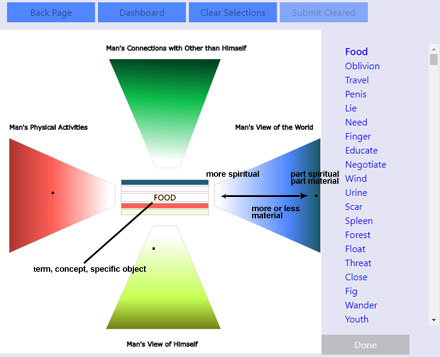
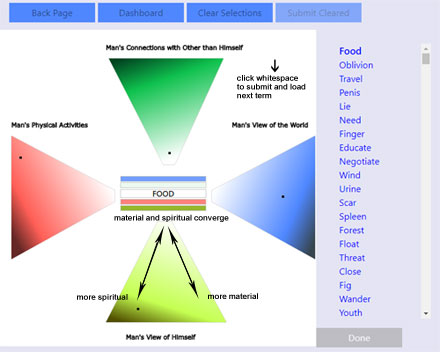
ran gulp task

diff --git a/public/js/s1-min.js b/public/js/s1-min.js
@@ -1,1 +1,1 @@
-Ybigh={counter:0,timeoutHandle:"",paths:[],current:"",saveSelection:[],counter_hash:[],click_counter:0,blue:null,green:null,red:null,yellow:null,data:null,confirmIndex:0,to_hex:function(o){return hex=o.toString(16),2==hex.length?hex:"0"+hex},clear:function(){Ybigh.$colors.fadeOut(Ybigh.$colors.remove),Ybigh.timeoutHandle=window.setTimeout(function(){"make-bold active"===$("#"+Ybigh.current).attr("class")&&$("#removeSelections").prop("disabled",!1),Ybigh.show(),$(".cl.world").css({"background-color":"white"}),$(".cl.others").css({"background-color":"white"}),$(".cl.activities").css({"background-color":"white"}),$(".cl.himself").css({"background-color":"white"}),Ybigh.blue=null,Ybigh.green=null,Ybigh.red=null,Ybigh.yellow=null},500)},submitCleared:function(){var o={name:Ybigh.current,wordID:123};$.ajax({type:"POST",url:"/symbol",data:JSON.stringify(o),error:function(o,e,t){},success:function(o){console.log(o),$("#"+Ybigh.current).removeClass("make-bold"),$("#removeSelections").prop("disabled",!0),Ybigh.counter>3&&$("#done").prop("disabled",!1).removeClass("dis")}})},startCounter:function(){Ybigh.timeoutHandle=window.setTimeout(function(){Ybigh.show()},500)},show:function(){var o=$("#phone").html();$(".word");let e;Ybigh.$colors=$('<canvas title="Once selections are made, click whitespace to submit current and load the next word" id="can" height="552" width="552"></canvas>'),$("#container").append(Ybigh.$colors.fadeIn()),Ybigh.colorctx=Ybigh.$colors[0].getContext("2d");var t=getAbsoluteBoundingRect(Ybigh.$colors[0]),c=t.left,l=t.top;Ybigh.render(!0),Ybigh.$colors.on("touchstart mouseup",function(t){if(t.preventDefault(),!Ybigh.current)return void alert("Click a term on the right then make selection(s)");let i="true"===o?t.changedTouches[0]:t,r=i.clientX,h=i.clientY,a=parseInt(r-c),n=parseInt(h-l);var g=0;for(g=0;g<Ybigh.paths.length&&!(e=Ybigh.colorctx.isPointInPath(Ybigh.paths[g],a,n));g++);if(e){let o=Ybigh.get_color(i);if("world"==Ybigh.paths[g].objID){let e=Ybigh.colorctx.createLinearGradient(575,0,375,0);e.addColorStop(0,"#014421"),e.addColorStop(.4,"#4f87ff"),e.addColorStop(1,"white"),Ybigh.colorctx.beginPath(),Ybigh.colorctx.moveTo(550,185),Ybigh.colorctx.lineTo(370,265),Ybigh.colorctx.lineTo(370,300),Ybigh.colorctx.lineTo(550,380),Ybigh.colorctx.closePath(),Ybigh.colorctx.fillStyle=e,Ybigh.colorctx.strokeStyle="#D0D0D0",Ybigh.colorctx.stroke(),Ybigh.colorctx.fill(),Ybigh.click_counter+=1,o.name=Ybigh.current,o.category=8,Ybigh.blue=o,Ybigh.colorctx.setTransform(1,0,0,1,0,0),Ybigh.colorctx.fillStyle="#000000",Ybigh.colorctx.fillRect(o.x-2,o.y-2,4,4),Ybigh.counter_hash.push({count:Ybigh.click_counter,category:o.category})}else if("others"==Ybigh.paths[g].objID){let e=Ybigh.colorctx.createLinearGradient(-90,30,-100,200);e.addColorStop(0,"#014421"),e.addColorStop(.4,"#0fc14e"),e.addColorStop(1,"white"),Ybigh.colorctx.beginPath(),Ybigh.colorctx.moveTo(190,50),Ybigh.colorctx.lineTo(270,235),Ybigh.colorctx.lineTo(310,235),Ybigh.colorctx.lineTo(380,50),Ybigh.colorctx.closePath(),Ybigh.colorctx.fillStyle=e,Ybigh.colorctx.strokeStyle="#D0D0D0",Ybigh.colorctx.stroke(),Ybigh.colorctx.fill(),Ybigh.click_counter+=1,o.name=Ybigh.current,o.category=2,Ybigh.green=o,Ybigh.colorctx.beginPath(),Ybigh.colorctx.setTransform(1,0,0,1,0,0),Ybigh.colorctx.fillStyle="#000000",Ybigh.colorctx.fillRect(o.x-2,o.y-2,4,4),Ybigh.counter_hash.push({count:Ybigh.click_counter,category:o.category})}else if("activities"==Ybigh.paths[g].objID){let e=Ybigh.colorctx.createLinearGradient(190,0,-50,0);e.addColorStop(0,"white"),e.addColorStop(.4,"#ff5f57"),e.addColorStop(1,"#600F0C"),Ybigh.colorctx.beginPath(),Ybigh.colorctx.moveTo(20,185),Ybigh.colorctx.lineTo(200,265),Ybigh.colorctx.lineTo(200,300),Ybigh.colorctx.lineTo(20,380),Ybigh.colorctx.closePath(),Ybigh.colorctx.fillStyle=e,Ybigh.colorctx.strokeStyle="#D0D0D0",Ybigh.colorctx.stroke(),Ybigh.colorctx.fill(),Ybigh.click_counter+=1,o.name=Ybigh.current,o.category=4,Ybigh.red=o,Ybigh.colorctx.setTransform(1,0,0,1,0,0),Ybigh.colorctx.fillStyle="#000000",Ybigh.colorctx.fillRect(o.x-2,o.y-2,4,4),Ybigh.counter_hash.push({count:Ybigh.click_counter,category:o.category})}else{let e=Ybigh.colorctx.createLinearGradient(0,530,0,350);e.addColorStop(0,"#525100"),e.addColorStop(.4,"#c5ff52"),e.addColorStop(1,"white"),Ybigh.colorctx.beginPath(),Ybigh.colorctx.moveTo(185,510),Ybigh.colorctx.lineTo(265,335),Ybigh.colorctx.lineTo(305,335),Ybigh.colorctx.lineTo(380,510),Ybigh.colorctx.closePath(),Ybigh.colorctx.fillStyle=e,Ybigh.colorctx.strokeStyle="#D0D0D0",Ybigh.colorctx.stroke(),Ybigh.colorctx.fill(),Ybigh.click_counter+=1,o.name=Ybigh.current,o.category=1,Ybigh.yellow=o,Ybigh.colorctx.setTransform(1,0,0,1,0,0),Ybigh.colorctx.fillStyle="#000000",Ybigh.colorctx.fillRect(o.x-2,o.y-2,4,4),Ybigh.counter_hash.push({count:Ybigh.click_counter,category:o.category})}$(".cl."+Ybigh.paths[g].objID).css({"background-color":o.c})}else if(Ybigh.blue||Ybigh.red||Ybigh.green||Ybigh.yellow){$("#word_list li").removeClass("active");var s=parseInt($("#"+Ybigh.current).attr("data")),b=$("#word_list").find("[data='"+s+"']")[0],Y=s+1,u=$("#word_list").find("[data='"+Y+"']")[0];if(Ybigh.checkIfDone(u))$(u).addClass("active"),Ybigh.next(u,b),s>18&&$("#word_list").scrollTo("+=35",800);else{var d=Y+1,x=$("#word_list").find("[data='"+d+"']")[0];$(x).addClass("active"),Ybigh.next(x,b),d>18&&$("#word_list").scrollTo("+=35",800)}}}),Ybigh.$colors.on("mousemove",function(o){o.preventDefault();let e=parseInt(o.clientX-c),t=parseInt(o.clientY-l);for(var i=0;i<Ybigh.paths.length;i++){Ybigh.colorctx.isPointInPath(Ybigh.paths[i],e,t)&&Ybigh.$colors.css("cursor","crosshair")}})},checkIfDone:function(o){return"make-bold"!==$(o).attr("class")},bind_inputs:function(o){$("#overlay").css("display","block"),$.get("/Stage1/data",function(o){var e;Ybigh.data=o.data,Ybigh.show(),$("#clear").click(Ybigh.clear),$("#done").click(Ybigh.done),$("#removeSelections").click(Ybigh.submitCleared);var t=$("#word_list");$.each(Ybigh.data,function(o,c){var l=$('<li data="'+o+'" id="'+this+'">'+this+"</li>").on("touchstart mouseup",function(){if($("#removeSelections").prop("disabled",!0),$("#word_list li").removeClass("active"),"make-bold"===$(this).attr("class"))return Ybigh.blue||Ybigh.green||Ybigh.red||Ybigh.yellow?($(e).addClass("active"),void alert("Clear or submit active symbol before viewing another symbol")):($(this).addClass("active"),Ybigh.getPreviousState(this),void(e=this));Ybigh.current=$(this).html(),$(".word").val($(this).html().toUpperCase()),$(this).addClass("active"),(Ybigh.blue||Ybigh.green||Ybigh.red||Ybigh.yellow)&&Ybigh.current!==$(e).html()&&Ybigh.next(this,e),e=this});t.append(l)}),$("#overlay").css("display","none")})},next:function(o,e){$(".cl.world").css({"background-color":"white"}),$(".cl.others").css({"background-color":"white"}),$(".cl.activities").css({"background-color":"white"}),$(".cl.himself").css({"background-color":"white"}),Ybigh.close();let t=Ybigh.counter_hash.filter(function(o,e,t){return t.findIndex(function(e){return e.category==o.category})===e}).map(function(o){return{count:Ybigh.counter_hash.filter(function(e){return e.category==o.category}).reduce(function(o,e){return e.count<o?e.count:o}).count,category:o.category}});for(var c=0;c<t.length;c++)Ybigh.yellow&&Ybigh.yellow.category===t[c].category&&(Ybigh.yellow.clicked=t[c].count,Ybigh.saveSelection.push(Ybigh.yellow)),Ybigh.green&&Ybigh.green.category===t[c].category&&(Ybigh.green.clicked=t[c].count,Ybigh.saveSelection.push(Ybigh.green)),Ybigh.red&&Ybigh.red.category===t[c].category&&(Ybigh.red.clicked=t[c].count,Ybigh.saveSelection.push(Ybigh.red)),Ybigh.blue&&Ybigh.blue.category===t[c].category&&(Ybigh.blue.clicked=t[c].count,Ybigh.saveSelection.push(Ybigh.blue));Ybigh.saveSelection.sort(function(o,e){return o.count-e.count}),Ybigh.submit(Ybigh.saveSelection,o,e),Ybigh.saveSelection.length=0,Ybigh.blue=null,Ybigh.green=null,Ybigh.red=null,Ybigh.yellow=null},getPreviousState:function(o){for(var e=$(o).html(),t=[{c:"#81dea2",x:329,y:92,percentx:59.49367088607595,percenty:16.636528028933093,name:e,category:2,clicked:1},{c:"#cadbff",x:451,y:278,percentx:81.55515370705244,percenty:50.27124773960217,name:e,category:8,clicked:2},{c:"#ffe3e2",x:156,y:283,percentx:28.20976491862568,percenty:51.17540687160941,name:e,category:4,clicked:3},{c:"#e0ffa2",x:266,y:489,percentx:48.10126582278481,percenty:88.42676311030742,name:e,category:1,clicked:4}],c=0;c<t.length;c++)switch(Ybigh.colorctx.setTransform(1,0,0,1,0,0),Ybigh.colorctx.fillStyle="#000000",Ybigh.colorctx.fillRect(t[c].x-2,t[c].y-2,4,4),t[c].category){case 1:$(".cl.himself").css({"background-color":t[c].c}),Ybigh.yellow=t[c],Ybigh.counter_hash.push({count:t[c].click,category:t[c].category});break;case 2:$(".cl.others").css({"background-color":t[c].c}),Ybigh.green=t[c],Ybigh.counter_hash.push({count:t[c].click,category:t[c].category});break;case 4:$(".cl.activities").css({"background-color":t[c].c}),Ybigh.red=t[c],Ybigh.counter_hash.push({count:t[c].click,category:t[c].category});break;case 8:$(".cl.world").css({"background-color":t[c].c}),Ybigh.blue=t[c],Ybigh.counter_hash.push({count:t[c].click,category:t[c].category})}Ybigh.current=e,$(".word").val(e.toUpperCase())},done:function(o){(Ybigh.yellow||Ybigh.blue||Ybigh.red||Ybigh.green)&&Ybigh.next(),window.location.href="/Stage2"},submit:function(o,e,t){$("#overlay").css("display","block"),$.ajax({type:"POST",url:"/symbol",data:JSON.stringify(o),error:function(o,e,t){$("#overlay").css("display","none")},success:function(c){o.length=0,Ybigh.counter+=1,e&&t?(Ybigh.current=$(e).html(),$(".word").val($(e).html().toUpperCase()),$(t).addClass("make-bold")):$(t).addClass("make-bold"),Ybigh.counter>3&&$("#done").prop("disabled",!1).removeClass("dis"),$("#overlay").css("display","none")}})},close:function(){Ybigh.$colors.fadeOut(Ybigh.$colors.remove),Ybigh.startCounter()},get_color:function(o){var e=o.pageX-Ybigh.$colors.offset().left,t=o.pageY-Ybigh.$colors.offset().top,c=Ybigh.colorctx.getImageData(e,t,1,1).data,l=e/$("#can").width()*100,i=t/$("#can").height()*100;return{c:"#"+Ybigh.to_hex(c[0])+Ybigh.to_hex(c[1])+Ybigh.to_hex(c[2]),x:e,y:t,percentx:l,percenty:i}},render:function(o){var e,t=[{nameID:"others",col1:"white",col2:"#0fc14e",col0:"#014421",x:190,y:50,xlt:270,ylt:235,xlt1:310,ylt1:235,xlt2:380,ylt2:50,sy:30,fy:200,sx:-90,fx:-100,stop1:0,stop2:.4,stop3:1,labelX:185,labelY:35,label:"Man's Connections with Other than Himself"},{nameID:"activities",col1:"#600F0C",col2:"#ff5f57",col0:"white",x:20,y:185,xlt:200,ylt:265,xlt1:200,ylt1:300,xlt2:20,ylt2:380,sy:0,fy:0,sx:190,fx:-50,stop1:0,stop2:.4,stop3:1,labelX:20,labelY:170,label:"Man's Physical Activities"},{nameID:"world",col1:"white",col2:"#4f87ff",col0:"#014421",x:550,y:185,xlt:370,ylt:265,xlt1:370,ylt1:300,xlt2:550,ylt2:380,sy:0,fy:0,sx:575,fx:375,stop1:0,stop2:.4,stop3:1,labelX:405,labelY:170,label:"Man's View of the World"},{nameID:"himself",col1:"white",col2:"#c5ff52",col0:"#525100",x:185,y:510,xlt:265,ylt:335,xlt1:305,ylt1:335,xlt2:380,ylt2:510,sy:530,fy:350,sx:0,fx:0,stop1:0,stop2:.4,stop3:1,labelX:220,labelY:540,label:"Man's View of Himself"}];Path2D.prototype.getID=function(o){this.objID=o};for(var c=0;c<t.length;c++){(e=("others"==t[c].nameID||t[c].nameID,Ybigh.colorctx.createLinearGradient(t[c].sx,t[c].sy,t[c].fx,t[c].fy))).addColorStop(t[c].stop1,t[c].col0),e.addColorStop(t[c].stop2,t[c].col2),e.addColorStop(t[c].stop3,t[c].col1);var l=new Path2D;l.moveTo(t[c].x,t[c].y),l.lineTo(t[c].xlt,t[c].ylt),l.lineTo(t[c].xlt1,t[c].ylt1),l.lineTo(t[c].xlt2,t[c].ylt2),l.closePath(),l.getID(t[c].nameID),Ybigh.colorctx.fillStyle=e,Ybigh.colorctx.strokeStyle="#D0D0D0",Ybigh.colorctx.stroke(l),Ybigh.colorctx.fill(l),o&&(Ybigh.paths.push(l),Ybigh.colorctx.strokeStyle="black",Ybigh.colorctx.font="11px verdana",Ybigh.colorctx.strokeText(t[c].label,t[c].labelX,t[c].labelY))}}},Ybigh.bind_inputs();
+Ybigh={counter:0,timeoutHandle:"",paths:[],current:"",saveSelection:[],counter_hash:[],click_counter:0,blue:null,green:null,red:null,yellow:null,data:null,confirmIndex:0,to_hex:function(o){return hex=o.toString(16),2==hex.length?hex:"0"+hex},clear:function(){Ybigh.$colors.fadeOut(Ybigh.$colors.remove),Ybigh.timeoutHandle=window.setTimeout(function(){"make-bold active"===$("#"+Ybigh.current).attr("class")&&$("#removeSelections").prop("disabled",!1),Ybigh.show(),$(".cl.world").css({"background-color":"white"}),$(".cl.others").css({"background-color":"white"}),$(".cl.activities").css({"background-color":"white"}),$(".cl.himself").css({"background-color":"white"}),Ybigh.blue=null,Ybigh.green=null,Ybigh.red=null,Ybigh.yellow=null},500)},submitCleared:function(){var o={name:Ybigh.current,wordID:123};$.ajax({type:"POST",url:"/symbol",data:JSON.stringify(o),error:function(o,e,t){},success:function(o){console.log(o),$("#"+Ybigh.current).removeClass("make-bold"),$("#removeSelections").prop("disabled",!0),Ybigh.counter>3&&$("#done").prop("disabled",!1).removeClass("dis")}})},startCounter:function(){Ybigh.timeoutHandle=window.setTimeout(function(){Ybigh.show()},500)},show:function(){var o=$("#phone").html();$(".word");let e;Ybigh.$colors=$('<canvas title="Once selections are made, click whitespace to submit current and load the next word" id="can" height="552" width="552"></canvas>'),$("#container").append(Ybigh.$colors.fadeIn()),Ybigh.colorctx=Ybigh.$colors[0].getContext("2d");var t=getAbsoluteBoundingRect(Ybigh.$colors[0]),c=t.left,l=t.top;Ybigh.render(!0),Ybigh.$colors.on("touchstart mouseup",function(t){if(t.preventDefault(),!Ybigh.current)return void alert("Click a term on the right then make selection(s)");let i="true"===o?t.changedTouches[0]:t,r=i.clientX,h=i.clientY,a=parseInt(r-c),n=parseInt(h-l);var g=0;for(g=0;g<Ybigh.paths.length&&!(e=Ybigh.colorctx.isPointInPath(Ybigh.paths[g],a,n));g++);if(e){let o=Ybigh.get_color(i);if("world"==Ybigh.paths[g].objID){let e=Ybigh.colorctx.createLinearGradient(580,300,90,90);e.addColorStop(0,"#36454F"),e.addColorStop(.1,"#4f87ff"),e.addColorStop(.37,"white"),Ybigh.colorctx.beginPath(),Ybigh.colorctx.moveTo(550,185),Ybigh.colorctx.lineTo(370,280),Ybigh.colorctx.lineTo(370,300),Ybigh.colorctx.lineTo(550,400),Ybigh.colorctx.closePath(),Ybigh.colorctx.fillStyle=e,Ybigh.colorctx.strokeStyle="#D0D0D0",Ybigh.colorctx.stroke(),Ybigh.colorctx.fill(),Ybigh.click_counter+=1,o.name=Ybigh.current,o.category=8,Ybigh.blue=o,Ybigh.colorctx.setTransform(1,0,0,1,0,0),Ybigh.colorctx.fillStyle="#000000",Ybigh.colorctx.fillRect(o.x-2,o.y-2,4,4),Ybigh.counter_hash.push({count:Ybigh.click_counter,category:o.category})}else if("others"==Ybigh.paths[g].objID){let e=Ybigh.colorctx.createLinearGradient(-45,120,27,323);e.addColorStop(.1,"#014421"),e.addColorStop(.37,"#0fc14e"),e.addColorStop(1,"white"),Ybigh.colorctx.beginPath(),Ybigh.colorctx.moveTo(190,50),Ybigh.colorctx.lineTo(285,235),Ybigh.colorctx.lineTo(305,235),Ybigh.colorctx.lineTo(390,50),Ybigh.colorctx.closePath(),Ybigh.colorctx.fillStyle=e,Ybigh.colorctx.strokeStyle="#D0D0D0",Ybigh.colorctx.stroke(),Ybigh.colorctx.fill(),Ybigh.click_counter+=1,o.name=Ybigh.current,o.category=2,Ybigh.green=o,Ybigh.colorctx.beginPath(),Ybigh.colorctx.setTransform(1,0,0,1,0,0),Ybigh.colorctx.fillStyle="#000000",Ybigh.colorctx.fillRect(o.x-2,o.y-2,4,4),Ybigh.counter_hash.push({count:Ybigh.click_counter,category:o.category})}else if("activities"==Ybigh.paths[g].objID){let e=Ybigh.colorctx.createLinearGradient(-10,300,380,90);e.addColorStop(0,"#662825"),e.addColorStop(.1,"#ff5f57"),e.addColorStop(.43,"white"),Ybigh.colorctx.beginPath(),Ybigh.colorctx.moveTo(20,185),Ybigh.colorctx.lineTo(200,280),Ybigh.colorctx.lineTo(200,300),Ybigh.colorctx.lineTo(20,400),Ybigh.colorctx.closePath(),Ybigh.colorctx.fillStyle=e,Ybigh.colorctx.strokeStyle="#D0D0D0",Ybigh.colorctx.stroke(),Ybigh.colorctx.fill(),Ybigh.click_counter+=1,o.name=Ybigh.current,o.category=4,Ybigh.red=o,Ybigh.colorctx.setTransform(1,0,0,1,0,0),Ybigh.colorctx.fillStyle="#000000",Ybigh.colorctx.fillRect(o.x-2,o.y-2,4,4),Ybigh.counter_hash.push({count:Ybigh.click_counter,category:o.category})}else{let e=Ybigh.colorctx.createLinearGradient(-25,485,50,250);e.addColorStop(.2,"#525100"),e.addColorStop(.4,"#c5ff52"),e.addColorStop(1,"white"),Ybigh.colorctx.beginPath(),Ybigh.colorctx.moveTo(185,510),Ybigh.colorctx.lineTo(275,335),Ybigh.colorctx.lineTo(300,335),Ybigh.colorctx.lineTo(395,510),Ybigh.colorctx.closePath(),Ybigh.colorctx.fillStyle=e,Ybigh.colorctx.strokeStyle="#D0D0D0",Ybigh.colorctx.stroke(),Ybigh.colorctx.fill(),Ybigh.click_counter+=1,o.name=Ybigh.current,o.category=1,Ybigh.yellow=o,Ybigh.colorctx.setTransform(1,0,0,1,0,0),Ybigh.colorctx.fillStyle="#000000",Ybigh.colorctx.fillRect(o.x-2,o.y-2,4,4),Ybigh.counter_hash.push({count:Ybigh.click_counter,category:o.category})}$(".cl."+Ybigh.paths[g].objID).css({"background-color":o.c})}else if(Ybigh.blue||Ybigh.red||Ybigh.green||Ybigh.yellow){$("#word_list li").removeClass("active");var s=parseInt($("#"+Ybigh.current).attr("data")),b=$("#word_list").find("[data='"+s+"']")[0],Y=s+1,u=$("#word_list").find("[data='"+Y+"']")[0];if(Ybigh.checkIfDone(u))$(u).addClass("active"),Ybigh.next(u,b),s>18&&$("#word_list").scrollTo("+=35",800);else{var d=Y+1,x=$("#word_list").find("[data='"+d+"']")[0];$(x).addClass("active"),Ybigh.next(x,b),d>18&&$("#word_list").scrollTo("+=35",800)}}}),Ybigh.$colors.on("mousemove",function(o){o.preventDefault();let e=parseInt(o.clientX-c),t=parseInt(o.clientY-l);for(var i=0;i<Ybigh.paths.length;i++){Ybigh.colorctx.isPointInPath(Ybigh.paths[i],e,t)&&Ybigh.$colors.css("cursor","crosshair")}})},checkIfDone:function(o){return"make-bold"!==$(o).attr("class")},bind_inputs:function(o){$("#overlay").css("display","block"),$.get("/Stage1/data",function(o){var e;Ybigh.data=o.data,Ybigh.show(),$("#clear").click(Ybigh.clear),$("#done").click(Ybigh.done),$("#removeSelections").click(Ybigh.submitCleared);var t=$("#word_list");$.each(Ybigh.data,function(o,c){var l=$('<li data="'+o+'" id="'+this+'">'+this+"</li>").on("touchstart mouseup",function(){if($("#removeSelections").prop("disabled",!0),$("#word_list li").removeClass("active"),"make-bold"===$(this).attr("class"))return Ybigh.blue||Ybigh.green||Ybigh.red||Ybigh.yellow?($(e).addClass("active"),void alert("Clear or submit active symbol before viewing another symbol")):($(this).addClass("active"),Ybigh.getPreviousState(this),void(e=this));Ybigh.current=$(this).html(),$(".word").val($(this).html().toUpperCase()),$(this).addClass("active"),(Ybigh.blue||Ybigh.green||Ybigh.red||Ybigh.yellow)&&Ybigh.current!==$(e).html()&&Ybigh.next(this,e),e=this});t.append(l)}),$("#overlay").css("display","none")})},next:function(o,e){$(".cl.world").css({"background-color":"white"}),$(".cl.others").css({"background-color":"white"}),$(".cl.activities").css({"background-color":"white"}),$(".cl.himself").css({"background-color":"white"}),Ybigh.close();let t=Ybigh.counter_hash.filter(function(o,e,t){return t.findIndex(function(e){return e.category==o.category})===e}).map(function(o){return{count:Ybigh.counter_hash.filter(function(e){return e.category==o.category}).reduce(function(o,e){return e.count<o?e.count:o}).count,category:o.category}});for(var c=0;c<t.length;c++)Ybigh.yellow&&Ybigh.yellow.category===t[c].category&&(Ybigh.yellow.clicked=t[c].count,Ybigh.saveSelection.push(Ybigh.yellow)),Ybigh.green&&Ybigh.green.category===t[c].category&&(Ybigh.green.clicked=t[c].count,Ybigh.saveSelection.push(Ybigh.green)),Ybigh.red&&Ybigh.red.category===t[c].category&&(Ybigh.red.clicked=t[c].count,Ybigh.saveSelection.push(Ybigh.red)),Ybigh.blue&&Ybigh.blue.category===t[c].category&&(Ybigh.blue.clicked=t[c].count,Ybigh.saveSelection.push(Ybigh.blue));Ybigh.saveSelection.sort(function(o,e){return o.count-e.count}),Ybigh.submit(Ybigh.saveSelection,o,e),Ybigh.saveSelection.length=0,Ybigh.blue=null,Ybigh.green=null,Ybigh.red=null,Ybigh.yellow=null},getPreviousState:function(o){for(var e=$(o).html(),t=[{c:"#81dea2",x:329,y:92,percentx:59.49367088607595,percenty:16.636528028933093,name:e,category:2,clicked:1},{c:"#cadbff",x:451,y:278,percentx:81.55515370705244,percenty:50.27124773960217,name:e,category:8,clicked:2},{c:"#ffe3e2",x:156,y:283,percentx:28.20976491862568,percenty:51.17540687160941,name:e,category:4,clicked:3},{c:"#e0ffa2",x:266,y:489,percentx:48.10126582278481,percenty:88.42676311030742,name:e,category:1,clicked:4}],c=0;c<t.length;c++)switch(Ybigh.colorctx.setTransform(1,0,0,1,0,0),Ybigh.colorctx.fillStyle="#000000",Ybigh.colorctx.fillRect(t[c].x-2,t[c].y-2,4,4),t[c].category){case 1:$(".cl.himself").css({"background-color":t[c].c}),Ybigh.yellow=t[c],Ybigh.counter_hash.push({count:t[c].click,category:t[c].category});break;case 2:$(".cl.others").css({"background-color":t[c].c}),Ybigh.green=t[c],Ybigh.counter_hash.push({count:t[c].click,category:t[c].category});break;case 4:$(".cl.activities").css({"background-color":t[c].c}),Ybigh.red=t[c],Ybigh.counter_hash.push({count:t[c].click,category:t[c].category});break;case 8:$(".cl.world").css({"background-color":t[c].c}),Ybigh.blue=t[c],Ybigh.counter_hash.push({count:t[c].click,category:t[c].category})}Ybigh.current=e,$(".word").val(e.toUpperCase())},done:function(o){(Ybigh.yellow||Ybigh.blue||Ybigh.red||Ybigh.green)&&Ybigh.next(),window.location.href="/Stage2"},submit:function(o,e,t){$("#overlay").css("display","block"),$.ajax({type:"POST",url:"/symbol",data:JSON.stringify(o),error:function(o,e,t){$("#overlay").css("display","none")},success:function(c){o.length=0,Ybigh.counter+=1,e&&t?(Ybigh.current=$(e).html(),$(".word").val($(e).html().toUpperCase()),$(t).addClass("make-bold")):$(t).addClass("make-bold"),Ybigh.counter>3&&$("#done").prop("disabled",!1).removeClass("dis"),$("#overlay").css("display","none")}})},close:function(){Ybigh.$colors.fadeOut(Ybigh.$colors.remove),Ybigh.startCounter()},get_color:function(o){var e=o.pageX-Ybigh.$colors.offset().left,t=o.pageY-Ybigh.$colors.offset().top,c=Ybigh.colorctx.getImageData(e,t,1,1).data,l=e/$("#can").width()*100,i=t/$("#can").height()*100;return{c:"#"+Ybigh.to_hex(c[0])+Ybigh.to_hex(c[1])+Ybigh.to_hex(c[2]),x:e,y:t,percentx:l,percenty:i}},render:function(o){var e,t=[{nameID:"others",col1:"white",col2:"#0fc14e",col0:"#014421",x:190,y:50,xlt:285,ylt:235,xlt1:305,ylt1:235,xlt2:390,ylt2:50,sy:120,fy:323,sx:-45,fx:27,stop1:.1,stop2:.37,stop3:1,labelX:185,labelY:35,label:"Man's Connections with Other than Himself"},{nameID:"activities",col1:"white",col2:"#ff5f57",col0:"#772d29",x:20,y:185,xlt:200,ylt:280,xlt1:200,ylt1:300,xlt2:20,ylt2:400,sy:300,fy:90,sx:-10,fx:380,stop1:0,stop2:.1,stop3:.43,labelX:20,labelY:170,label:"Man's Physical Activities"},{nameID:"world",col1:"white",col2:"#4f87ff",col0:"#36454F",x:550,y:185,xlt:370,ylt:280,xlt1:370,ylt1:300,xlt2:550,ylt2:400,sy:300,fy:90,sx:580,fx:90,stop1:0,stop2:.1,stop3:.37,labelX:405,labelY:170,label:"Man's View of the World"},{nameID:"himself",col1:"white",col2:"#c5ff52",col0:"#525100",x:185,y:510,xlt:275,ylt:335,xlt1:300,ylt1:335,xlt2:395,ylt2:510,sy:485,fy:250,sx:-25,fx:50,stop1:.2,stop2:.4,stop3:1,labelX:220,labelY:540,label:"Man's View of Himself"}];Path2D.prototype.getID=function(o){this.objID=o};for(var c=0;c<t.length;c++){(e=("others"==t[c].nameID||t[c].nameID,Ybigh.colorctx.createLinearGradient(t[c].sx,t[c].sy,t[c].fx,t[c].fy))).addColorStop(t[c].stop1,t[c].col0),e.addColorStop(t[c].stop2,t[c].col2),e.addColorStop(t[c].stop3,t[c].col1);var l=new Path2D;l.moveTo(t[c].x,t[c].y),l.lineTo(t[c].xlt,t[c].ylt),l.lineTo(t[c].xlt1,t[c].ylt1),l.lineTo(t[c].xlt2,t[c].ylt2),l.closePath(),l.getID(t[c].nameID),Ybigh.colorctx.fillStyle=e,Ybigh.colorctx.strokeStyle="#D0D0D0",Ybigh.colorctx.stroke(l),Ybigh.colorctx.fill(l),o&&(Ybigh.paths.push(l),Ybigh.colorctx.strokeStyle="black",Ybigh.colorctx.font="11px verdana",Ybigh.colorctx.strokeText(t[c].label,t[c].labelX,t[c].labelY))}}},Ybigh.bind_inputs();
